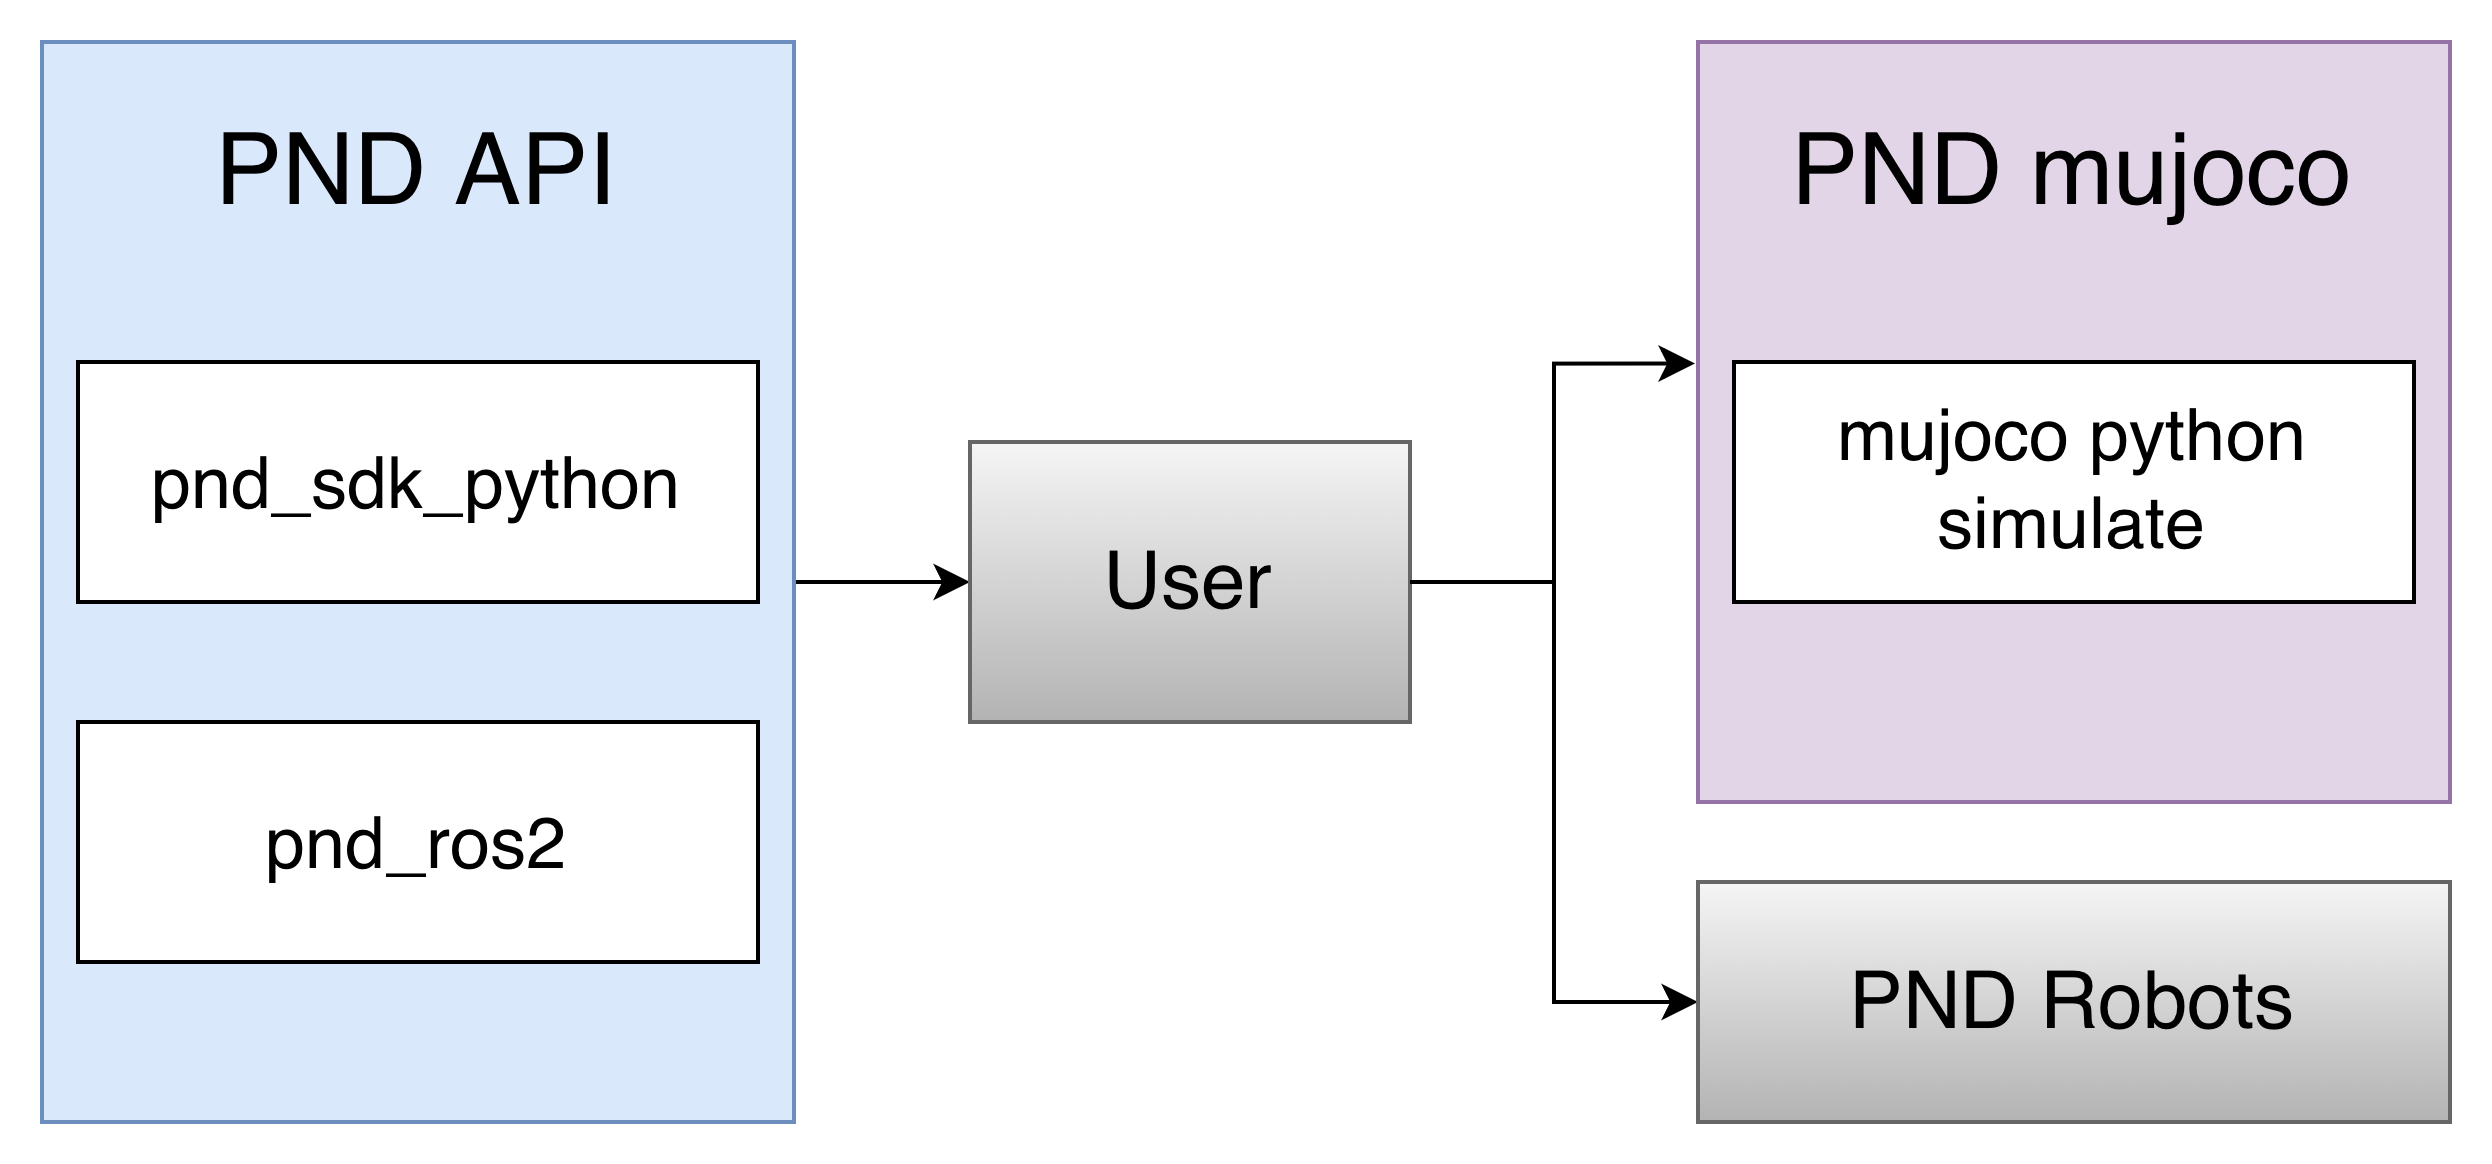
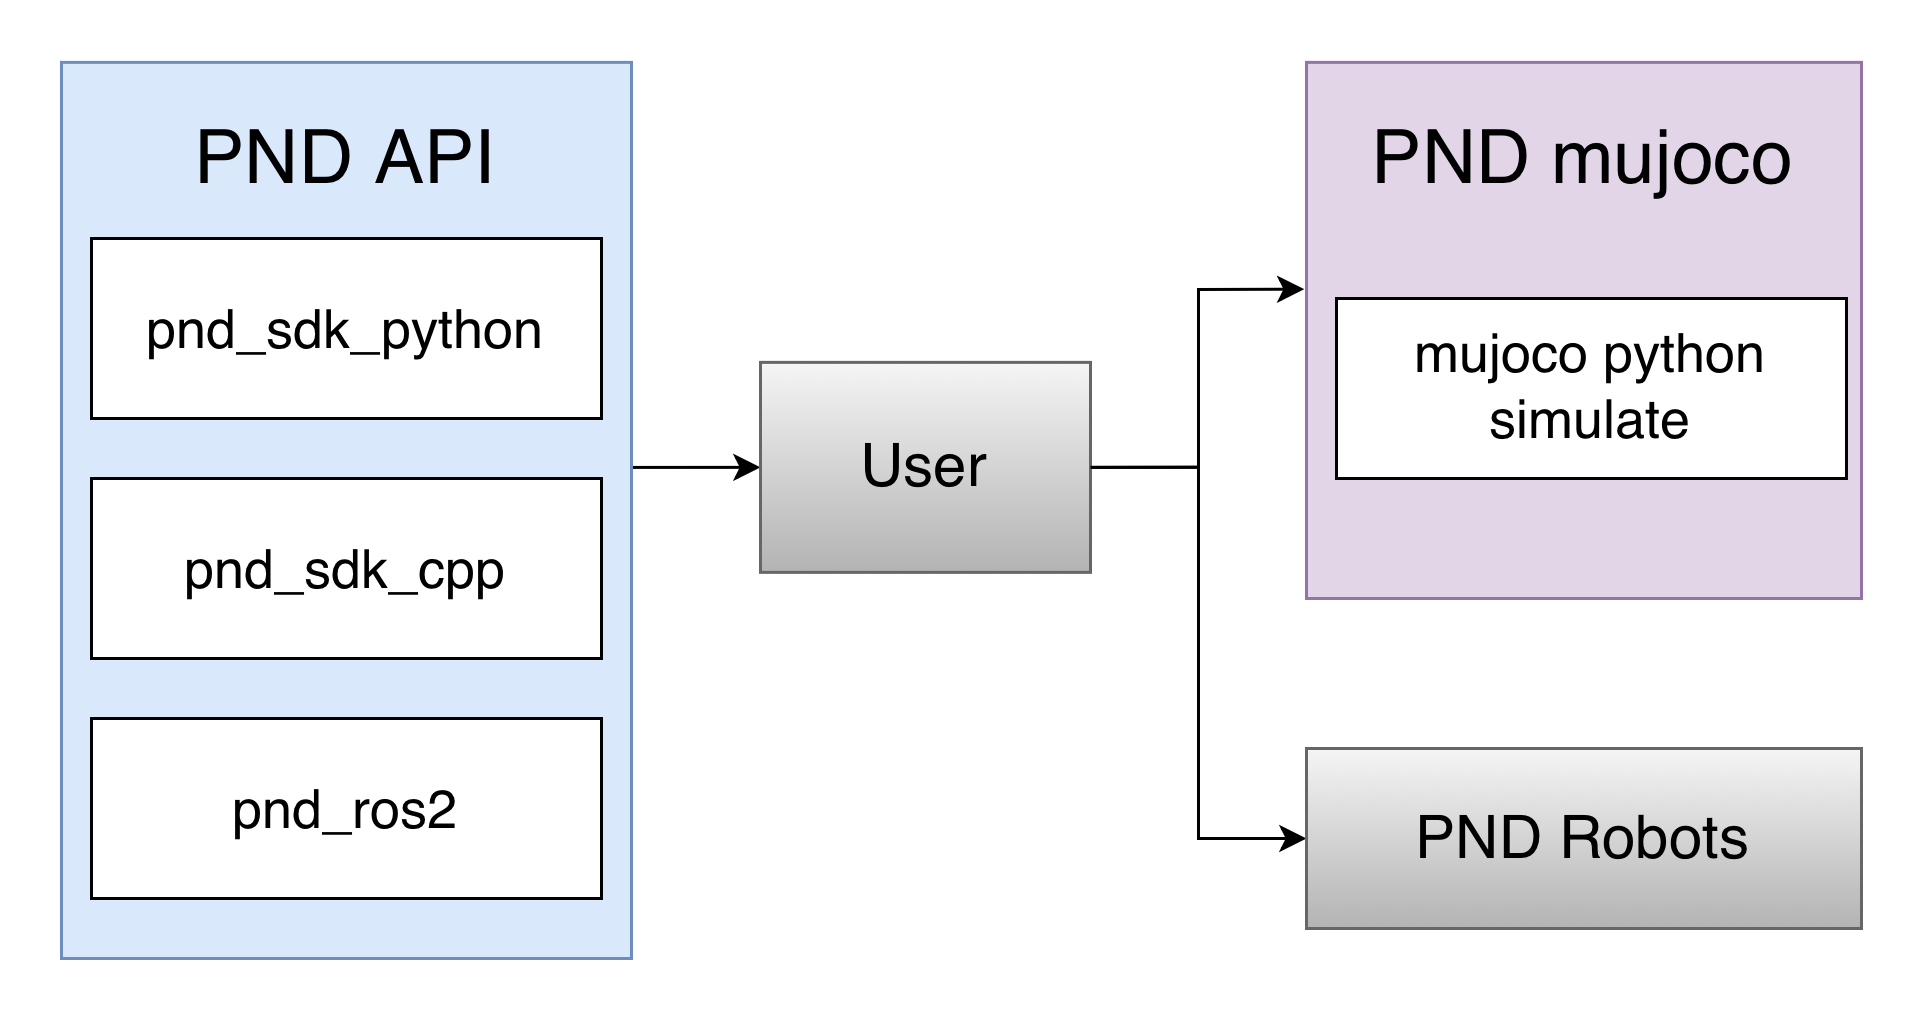
v1.3.1

diff --git a/README.md b/README.md
@@ -14,8 +14,8 @@
 [![CycloneDDS](https://img.shields.io/badge/CycloneDDS-latest-6D28D9)](https://cyclonedds.io/)
 [![ROS2](https://img.shields.io/badge/ROS2-Humble-22314E?logo=ros&logoColor=white)](https://docs.ros.org/en/humble/)
 
-![Updated At](https://img.shields.io/badge/Updated_At-December-64748B?style=flat-square)
-![Version](https://img.shields.io/badge/Version-1.0.4-2563EB?style=flat-square)
+![Updated At](https://img.shields.io/badge/Updated_At-April-64748B?style=flat-square)
+![Version](https://img.shields.io/badge/Version-1.3.1-2563EB?style=flat-square)
 [![License](https://img.shields.io/badge/License-BSD--3--Clause-059669?style=flat-square)](https://opensource.org/licenses/BSD-3-Clause)
 [![Issues](https://img.shields.io/badge/issues-open-EF4444?style=flat-square)](https://github.com/pndbotics/pnd_mujoco/issues)
 
@@ -32,8 +32,6 @@
 - `LowState`: Motor state information
 - `SportModeState`: Robot position and velocity data
 - `IMUState`: Torso IMU state at `rt/secondary_imu` topic
-
-## C++ Simulator Installation (coming soon)
 
 ## Python Simulator Installation (`simulate_python`)
 
@@ -173,6 +171,48 @@ cd ~/pnd_sdk_python/example/low_level/adam_lite # Robot name, "adam_u", "adam_li
 python3 adam_lite_low_level_example.py  enp59s0 # Robot name, "adam_u", "adam_lite", "adam_pro" , "adam_sp", replace enp59s0 with the actual wired network interface name
 ```
 
+#### pnd_sdk_cpp
+
+1. Install
+
+To build your own application with the SDK, you can install the pnd_sdk_cpp to your system directory:
+
+```bash
+cd ~/pnd_sdk_cpp
+mkdir build
+cd build
+cmake .. 
+sudo make install
+```
+
+Or install pnd_sdk_cpp to a specified directory:
+
+```bash
+cd ~/pnd_sdk_cpp
+mkdir build
+cd build
+cmake .. -DCMAKE_INSTALL_PREFIX=/opt/pndbotics_robotics
+sudo make install
+```
+
+> [!IMPORTANT]
+> If you install to a non-standard path, remember to add that path to your `${CMAKE_PREFIX_PATH}` so that `find_package()` can locate the SDK in your own projects.
+
+
+2. Run Example
+
+- **Run on real robot**:
+
+```bash
+# Get network interface name
+ip a
+
+# Run the control example (replace enp59s0 with the wired network interface name)
+cd ~/pnd_sdk_cpp/build/bin
+sudo ./lite_ankle_swing_example enp3s0
+```
+
+
 ### Python Example: Sim vs Real
 
 ```bash
@@ -225,6 +265,8 @@ The PND Adam-U robot model uses the `adam_u idl` for low-level communication.
 
 | Version | Date       | Updates                                                                              |
 | ------- | ---------- | ------------------------------------------------------------------------------------ |
+| v1.3.1  | 2026-04-20 | Fix gripper bug |
+| v1.3.0  | 2026-04-02 | Add adam_pro with gripper |
 | v1.2.0  | 2026-01-22 | DDS refactoring version |
 | v1.0.4  | 2025-12-09 | Update xbox axis & Add lo ro home in switch|
 | v1.0.3  | 2025-11-20 | Get state in ros2 |
